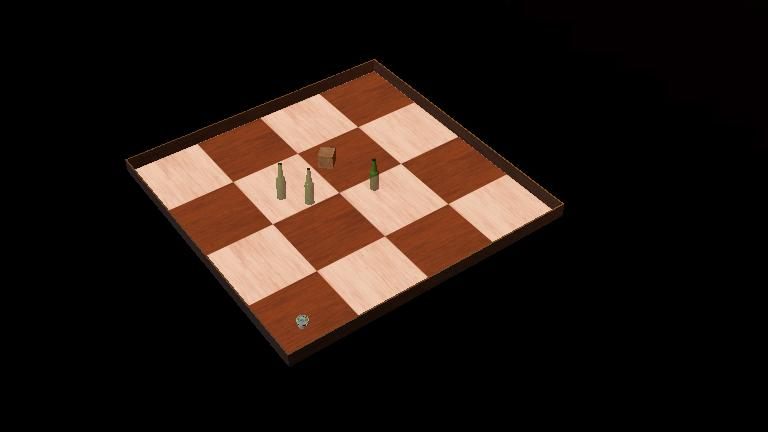
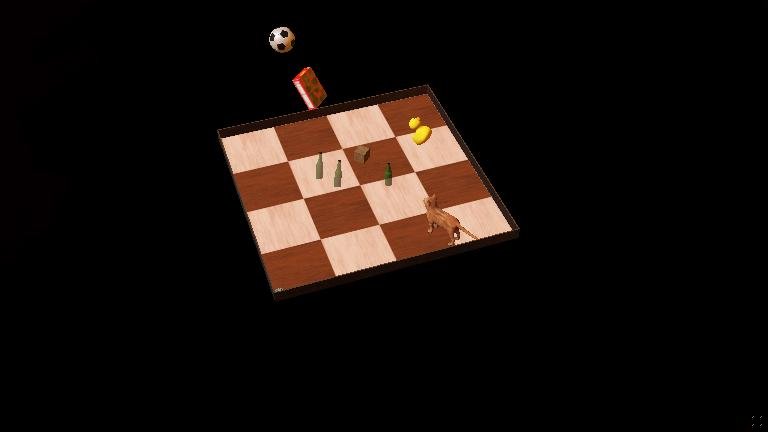
Implement lidar-based obstacle avoidance in the controller. Updated the simulation world with new objects and robot configurations. Updated readme.

Changed region(s): [[0.1562, 0.1204, 0.75, 0.8426], [0.3438, 0.0602, 0.4062, 0.1204]]

diff --git a/my_first_simulation/controllers/Proj_controller_my_controller_v1/Proj_controller_my_controller_v1.py b/my_first_simulation/controllers/Proj_controller_my_controller_v1/Proj_controller_my_controller_v1.py
@@ -86,14 +86,15 @@ left_min = 0
 
 
 # Variables for printing the sensor value every 1 second 
-last_print_time = 0.0
+last_print_time = -0.6
 
 # Speed constants
 CRUISE_SPEED = 0.4 #(m/s)
-TRUN_SPEED = 0.2 #(m/s)
+TRUN_SPEED = 0.35 #(m/s)
+HARD_TRUN_SPEED = 0.2 #(m/s)
 
 # Variables for acceleration
-OBSTACLE_DECELERATION_TIME = 1.5 #(s)
+OBSTACLE_DECELERATION_TIME = 1 #(s)
 time_to_target = 0.0
 
 # Main loop:
@@ -127,16 +128,28 @@ while robot.step(timestep) != -1:
         print(f"Wheel speeds: L: {w_l}, R: {w_r}")
         # Update last print time
         last_print_time = current_time
-        
-    # Simple obstacle avoidance with deceleration and acceleration from distance sensor
-    if dist < 600:
-        set_wheel_velocity(TRUN_SPEED, 5)
+
+    # Lidar obstacle avoidance
+    # Close object in front > turn
+    if center_min < 0.2:
+        if right_min > left_min:
+            set_wheel_velocity(HARD_TRUN_SPEED, -7.5) #turn left
+        else:
+            set_wheel_velocity(HARD_TRUN_SPEED, 7.5) #turn right
         time_to_target = 0.0
-    elif dist < 700: 
+    # Object in front > slow down 
+    elif center_min < 0.35:
         current_speed = get_current_linear_speed()
-        time_to_target += 0.005 #slower deceleration vs acc.
-        new_speed = acc_speed(TRUN_SPEED, current_speed, OBSTACLE_DECELERATION_TIME, time_to_target)
+        time_to_target += 0.005
+        new_speed = acc_speed(HARD_TRUN_SPEED, current_speed, OBSTACLE_DECELERATION_TIME, time_to_target)
         set_wheel_velocity(new_speed, 0)
+    # Object on the right 
+    elif right_min < 0.15 and right_min < left_min:
+        set_wheel_velocity(TRUN_SPEED, -3) #small turn left
+    # Object on the left
+    elif left_min < 0.15 and left_min < right_min:
+        set_wheel_velocity(TRUN_SPEED, 3) #small turn right
+    # No obstacle (+ acceleration)
     else:
         current_speed = get_current_linear_speed()
         if current_speed < CRUISE_SPEED:
@@ -146,12 +159,28 @@ while robot.step(timestep) != -1:
         else:
             time_to_target = 0.0
             set_wheel_velocity(CRUISE_SPEED, 0)
+        
 
     pass
 
 # Enter here exit cleanup code.
 
 
-
-
-
+    # # Simple obstacle avoidance with deceleration and acceleration from distance sensor
+    # if dist < 600:
+    #     set_wheel_velocity(TRUN_SPEED, 5) #only turns left
+    #     time_to_target = 0.0
+    # elif dist < 700: 
+    #     current_speed = get_current_linear_speed()
+    #     time_to_target += 0.005 #slower deceleration vs acc.
+    #     new_speed = acc_speed(TRUN_SPEED, current_speed, OBSTACLE_DECELERATION_TIME, time_to_target)
+    #     set_wheel_velocity(new_speed, 0)
+    # else:
+    #     current_speed = get_current_linear_speed()
+    #     if current_speed < CRUISE_SPEED:
+    #         time_to_target += 0.01 #faster acceleration vs dec.
+    #         new_speed = acc_speed(CRUISE_SPEED, current_speed, OBSTACLE_DECELERATION_TIME, time_to_target)
+    #         set_wheel_velocity(new_speed, 0)
+    #     else:
+    #         time_to_target = 0.0
+    #         set_wheel_velocity(CRUISE_SPEED, 0)

diff --git a/README.md b/README.md
@@ -6,13 +6,17 @@ Reverse chronological order of last update
 - Folder: my_first_simulation (13 Feb 2025)
     - File: Proj_controller_my_controller_v1.py (13 Feb 2025)
         - Added a controller that is pretty much the exact same as the one we use in the official project for me to experiment on this world. The controller makes the robot go forward until it detects an obstacle with the distance sensor, then it stops and turns left with decreased linear speed (from 0.4 m/s to 0.2 m/s) at a angular speed of 5 rad/s until the recorded distance becomes higher than a set value (600 ~~ 60cm). The deceleration starts a tad earlier than the turn (700 ~~ 70cm) where the robot starts decelrating at a constant acceleration for a set time (OBSTACLE_DECELERATION_TIME), the same time is then "used" for the robot to accelerate back to cruise speed after the turn has been made until cruise speed is reached.
-        - Added a lidar sensor to the robot with no use atm other than printing some information it records. Better obstacle avoidance will be implemented thanks to the lidar making the distance sensor pretty much useless since the lidar has a much greater FOV (field of view–currently set at ~150 degrees).
-    - Created a 'first simulation' in webots following the tutorial on the documentation.
-    - Added simple world following tutorial 1 (https://cyberbotics.com/doc/guide/tutorial-1-your-first-simulation-in-webots?tab-language=python) in python (since it's the language we will use for the project) and added/modified some bits from the base tutorial to better familiarize myself with webots. Specifically: 
-        - changed the view from mountains to "twilight_cloud_empty" for personal liking;
-        - added a wooden crate (object subject to no forces, by default sticks to ground); 
-        - added three beers (objects subject to physics and gravity) each one with a different weight to see the different behaviours when falling/being pushed by the robot;
-        - added a simple epuck robot and changed its controller to a custom one [File: epuck_go_forward.py] that makes the robot go forward for 5s and then starts turning with left wheel speed unchanged (50% of max speed) and right wheel speed at 1% of max speed, making the robot go in circles.
+        - Added a lidar sensor to the robot with no use atm other than printing some information it records. Better obstacle avoidance implemented thanks to the lidar which has a much greater FOV (field of view–currently set at ~180 degrees) than the distance sensor, as well as an array of distances to represent the sorrounding space.
+    - File: my_first_simulation.wbt (13 Feb 2025)
+        - Changed devices (sensor and robots) charateristics to better fit the project's requirements and the logic implemented in the controller.
+        - Added simple world following tutorial 1 (https://cyberbotics.com/doc/guide/tutorial-1-your-first-simulation-in-webots?tab-language=python) in python (since it's the language we will use for the project) and added/modified some bits from the base tutorial to better familiarize myself with webots. Specifically: 
+            - changed the view from mountains to "twilight_cloud_empty" for personal liking;
+            - added a wooden crate (object subject to no forces, by default sticks to ground); 
+            - added three beers (objects subject to physics and gravity) each one with a different weight to see the different behaviours when falling/being pushed by the robot;
+            - added a cat, a rubber duck, a soccer ball and a cereal box for the "testing" of the robot's obstacle avoidance.
+        - Created a 'first simulation' in webots following the tutorial on the documentation.
+    - File: epuck_go_forward.py (1 Feb 2025)
+        - Simple epuck controller based on tutorial, modified so that it makes the robot go forward for 5s and then starts turning with left wheel speed unchanged (50% of max speed) and right wheel speed at 1% of max speed, making the robot go in circles.
         - added a distance sensor to the robot.
 - File: client_trial1.py (1 Feb 2025)
     - Created a simple python client code to test socket communication with a C++ server.
